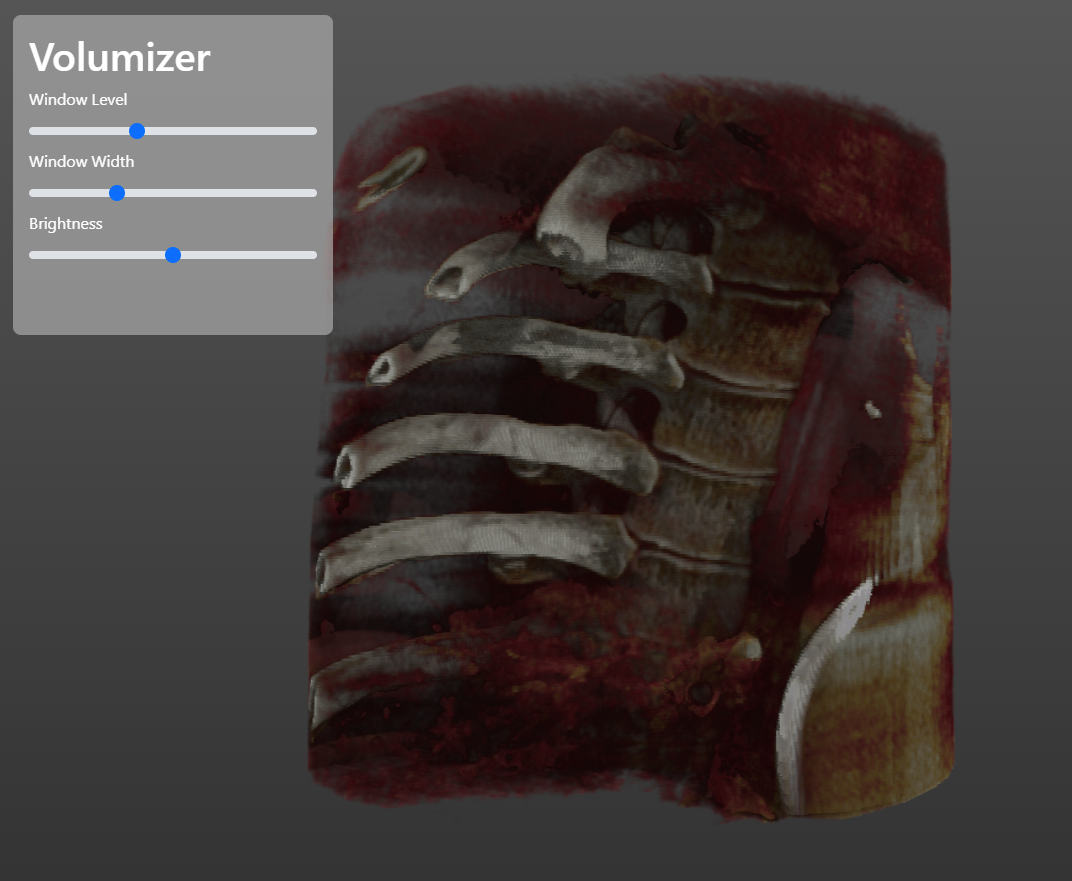
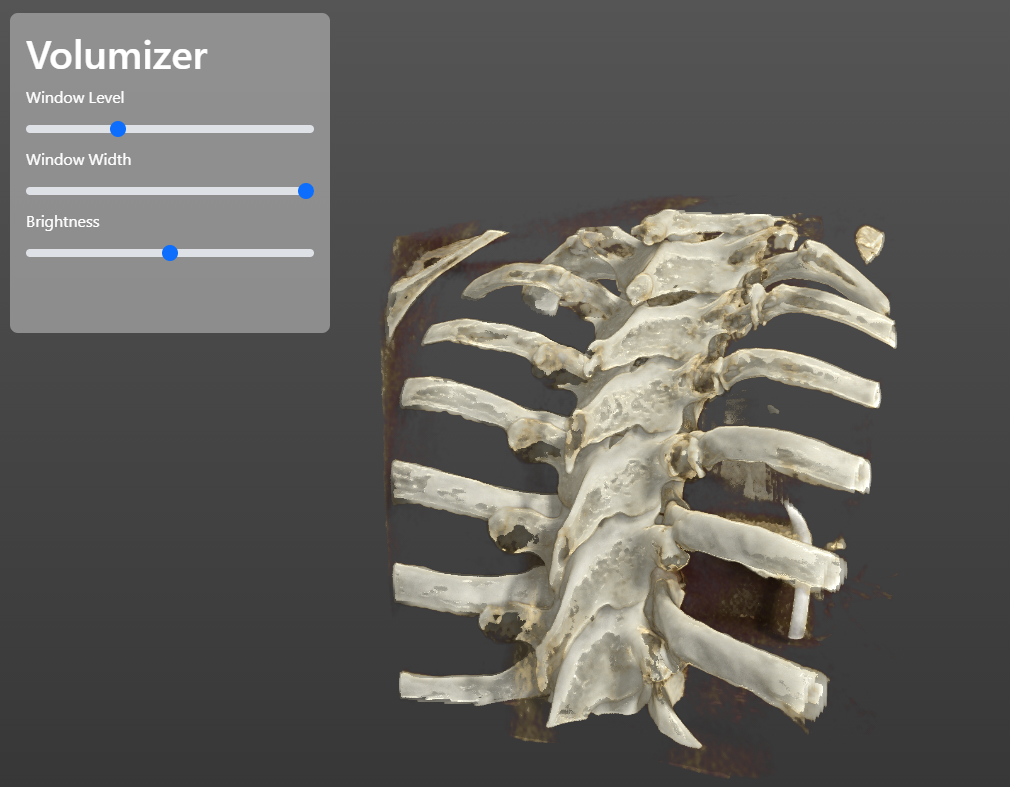
Improve photo-realism using trilinear interpolation and furter tuning

diff --git a/Src/volumerenderer.js b/Src/volumerenderer.js
@@ -1,6 +1,56 @@
 var vec3 = glMatrix.vec3;
 var mat4 = glMatrix.mat4;
 
+var toHalf = (function() {
+
+    var floatView = new Float32Array(1);
+    var int32View = new Int32Array(floatView.buffer);
+ 
+    /* This method is faster than the OpenEXR implementation (very often
+     * used, eg. in Ogre), with the additional benefit of rounding, inspired
+     * by James Tursa?s half-precision code. */
+    return function toHalf(val) {
+ 
+      floatView[0] = val;
+      var x = int32View[0];
+ 
+      var bits = (x >> 16) & 0x8000; /* Get the sign */
+      var m = (x >> 12) & 0x07ff; /* Keep one extra bit for rounding */
+      var e = (x >> 23) & 0xff; /* Using int is faster here */
+ 
+      /* If zero, or denormal, or exponent underflows too much for a denormal
+       * half, return signed zero. */
+      if (e < 103) {
+        return bits;
+      }
+ 
+      /* If NaN, return NaN. If Inf or exponent overflow, return Inf. */
+      if (e > 142) {
+        bits |= 0x7c00;
+        /* If exponent was 0xff and one mantissa bit was set, it means NaN,
+         * not Inf, so make sure we set one mantissa bit too. */
+        bits |= ((e == 255) ? 0 : 1) && (x & 0x007fffff);
+        return bits;
+      }
+ 
+      /* If exponent underflows but not too much, return a denormal */
+      if (e < 113) {
+        m |= 0x0800;
+        /* Extra rounding may overflow and set mantissa to 0 and exponent
+         * to 1, which is OK. */
+        bits |= (m >> (114 - e)) + ((m >> (113 - e)) & 1);
+        return bits;
+      }
+ 
+      bits |= ((e - 112) << 10) | (m >> 1);
+      /* Extra rounding. An overflow will set mantissa to 0 and increment
+       * the exponent, which is OK. */
+      bits += m & 1;
+      return bits;
+    };
+ 
+ }());
+
 var VolumeRenderer = function(gl) {
 
     this.loadVolume = function(url) {
@@ -18,8 +68,15 @@ var VolumeRenderer = function(gl) {
                 var dataBuffer = req.response;
                 if (dataBuffer) {
                     dataBuffer = new Uint16Array(dataBuffer);
+
+                    // Encode data as half-floats.
+                    var converted = new Uint16Array(dataBuffer.length);
+                    for (var i = 0; i < converted.length; i++) {
+                        converted[i] = toHalf(dataBuffer[i]);
+                    }
+
                     console.log("volume loaded");
-                    resolve(dataBuffer);
+                    resolve(converted);
                 } else {
                     alert("Unable to load buffer properly from volume?");
                     console.log("no buffer?");
@@ -217,10 +274,6 @@ var VolumeRenderer = function(gl) {
         gl.uniform1f(this.getUniformLocation("windowWidth"), value);
     }
 
-    this.setBrightness = function(value) {
-        gl.uniform1f(this.getUniformLocation("brightness"), value);
-    }
-
     this.createVolumeTexture = function(gl) {
         gl.useProgram(this.shaderProgram);
 
@@ -246,9 +299,9 @@ var VolumeRenderer = function(gl) {
         var texture = gl.createTexture();
         gl.activeTexture(gl.TEXTURE0);
         gl.bindTexture(gl.TEXTURE_3D, texture);
-        gl.texStorage3D(gl.TEXTURE_3D, 1, gl.R16UI, this.width, this.height, this.slices);
-        gl.texParameteri(gl.TEXTURE_3D, gl.TEXTURE_MIN_FILTER, gl.NEAREST);
-        gl.texParameteri(gl.TEXTURE_3D, gl.TEXTURE_MAG_FILTER, gl.NEAREST);
+        gl.texStorage3D(gl.TEXTURE_3D, 1, gl.R16F, this.width, this.height, this.slices);
+        gl.texParameteri(gl.TEXTURE_3D, gl.TEXTURE_MIN_FILTER, gl.LINEAR);
+        gl.texParameteri(gl.TEXTURE_3D, gl.TEXTURE_MAG_FILTER, gl.LINEAR);
         gl.texParameteri(gl.TEXTURE_3D, gl.TEXTURE_WRAP_R, gl.CLAMP_TO_EDGE);
         gl.texParameteri(gl.TEXTURE_3D, gl.TEXTURE_WRAP_S, gl.CLAMP_TO_EDGE);
         gl.texParameteri(gl.TEXTURE_3D, gl.TEXTURE_WRAP_T, gl.CLAMP_TO_EDGE);
@@ -256,7 +309,7 @@ var VolumeRenderer = function(gl) {
         gl.pixelStorei(gl.UNPACK_ALIGNMENT, 1);
         gl.texSubImage3D(gl.TEXTURE_3D, 0, 0, 0, 0, 
             this.width, this.height, this.slices, 
-            gl.RED_INTEGER, gl.UNSIGNED_SHORT, this.voxels);
+            gl.RED, gl.HALF_FLOAT, this.voxels);
     }    
 
     this.init = function(gl) {
@@ -267,8 +320,9 @@ var VolumeRenderer = function(gl) {
         var vertexShaderPromise = shaderutils.loadShaderSource("volumerenderer.vert");
         var fragmentShaderPromise = shaderutils.loadShaderSource("volumerenderer.frag");
 
-        var file = "engine_256x256x128_uint8.raw";
+        //var file = "engine_256x256x128_uint8.raw";
         var file = "spine_256x256x256_uint16.raw";
+        var file = "spine2_256x256x256_uint16.raw";
         //var file = "bonsai_256x256x256_uint8.raw";
         //var file = "skull_256x256x256_uint8.raw";
         //var file = "foot_256x256x256_uint8.raw";
@@ -305,7 +359,7 @@ var VolumeRenderer = function(gl) {
                 self.slices / longestAxis];
             gl.uniform3iv(self.getUniformLocation("volume_dims"), [self.width, self.height, self.slices]);
             gl.uniform1i(self.getUniformLocation("volume"), 0);
-            gl.uniform1f(self.getUniformLocation("dt_scale"), 0.25);
+            gl.uniform1f(self.getUniformLocation("dt_scale"), 0.5);
 
             // spine
             gl.uniform1f(this.getUniformLocation("rescaleIntercept"), -1200);
@@ -316,7 +370,7 @@ var VolumeRenderer = function(gl) {
             // gl.uniform1f(this.getUniformLocation("rescaleSlope"), 1);
 
             self.setWindowWidth(1048);
-            self.setWindowLevel(1048);
+            self.setWindowLevel(0);
 
             self.loaded = true;
             console.log("Renderer loaded");

diff --git a/Src/index.html b/Src/index.html
@@ -19,22 +19,17 @@
     </head>
 
     <body>
-        <canvas id="viewport" width="1048" height="1048"></canvas>
+        <canvas id="viewport" width="2048" height="2048"></canvas>
         <div id="title_background" class="title"></div>
         <div id="title_text" class="title">
             <h1>Volumizer</h1>
             <div>
                 <label for="offsetSlider" class="form-label">Window Level</label>
-                <input type="range" class="form-range" id="offsetSlider" min="-1024" max="3071" step="1">
+                <input type="range" class="form-range" id="offsetSlider" min="-3024" max="3071" step="1">
             </div>
             <div>
                 <label for="widthSlider" class="form-label">Window Width</label>
                 <input type="range" class="form-range" id="widthSlider" min="1" max="4096" step="1">
-            </div>
-
-            <div>
-                <label for="brightnessSlider" class="form-label">Brightness</label>
-                <input type="range" class="form-range" id="brightnessSlider" min="-0.4" max="0.4" step="0.005">
             </div>
         </div>
 

diff --git a/Src/viewport.js b/Src/viewport.js
@@ -45,13 +45,7 @@ function main() {
     widthSlider.addEventListener('input', function(e) {
         var value = e.target.value;
         volume.setWindowWidth(parseFloat(value));
-    });
-    
-    const brightnessSlider = document.querySelector("#brightnessSlider");
-    brightnessSlider.addEventListener('input', function(e) {
-        var value = e.target.value;
-        volume.setBrightness(parseFloat(value));
-    });
+    });    
 
     canvas.addEventListener('mousedown', function(e) {
         var e = window.event || e;

diff --git a/Src/style.css b/Src/style.css
@@ -3,7 +3,7 @@ html, body {
     padding: 0 !important;
     font-family: 'Noto Serif', serif;
     font-size: 1.0em;
-    background-image: linear-gradient(#555, #333);
+    background-image: linear-gradient(#556, #224);
 }
 
 #viewport {

diff --git a/Readme.md b/Readme.md
@@ -1,5 +1,9 @@
 # Web-gl based volume rendering
 
-The repository contains contains a WebGL 2.0 based interactive voxel volume renderer.
+The repository contains contains a WebGL 2.0 based interactive voxel volume renderer using path tracing. It runs in modern browsers.
 
+![](Images/volume-screenshot-5.png)
+![](Images/volume-screenshot-2.png)
 ![](Images/volume-screenshot.png)
+![](Images/volume-screenshot-3.png)
+![](Images/volume-screenshot-4.png)
